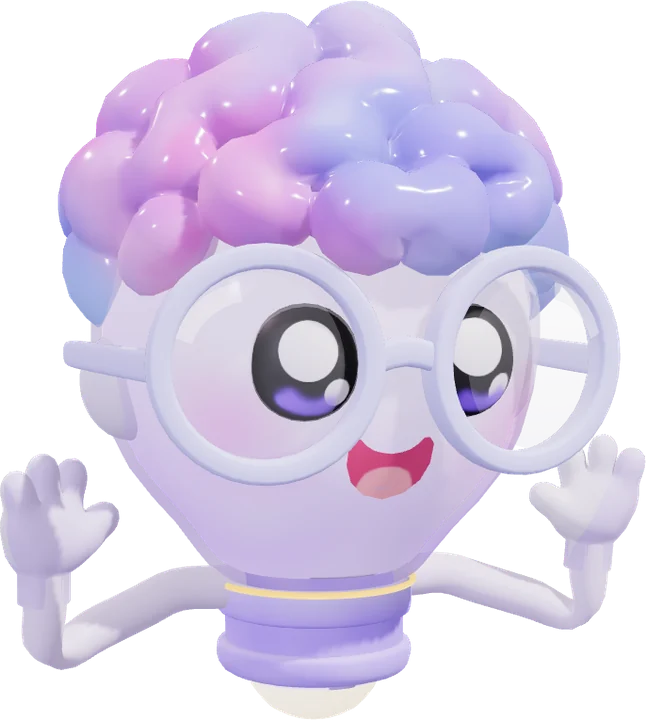
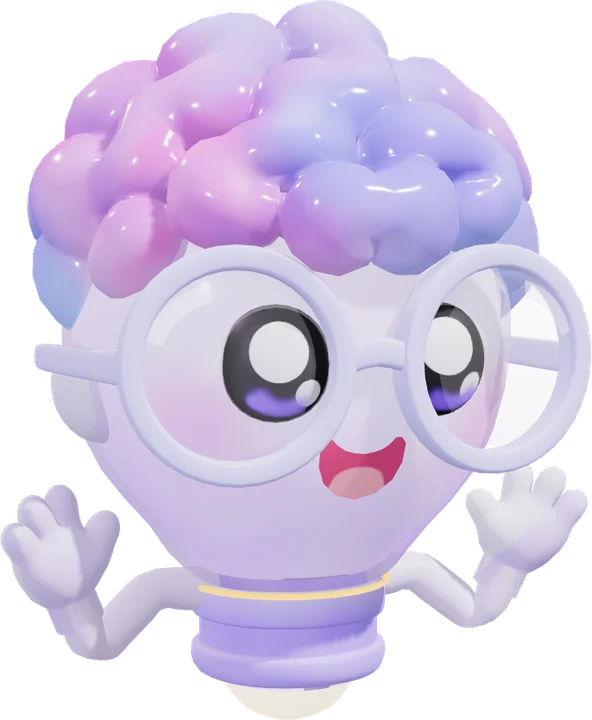
Stagger the About cast, give the Scholar books and shorten the Original's arms
- About hero: new front/back zigzag layout, everyone inside the frame with no overlaps
- Scholar carries a stack of books in the other hand instead of books on the floor
- Original: shorter arms (armLength option in the arm rig), stills re-rendered
- Founder block: face centred in the round photo, real Lynae logo, floating doodles removed

diff --git a/frontend/src/pages/AboutUsPage.js b/frontend/src/pages/AboutUsPage.js
@@ -8,15 +8,16 @@ import './AboutUsPage.css';
 
 // Feet (x, y) and height (h) in % of /hero/about-scene.webp, measured from the
 // camera that rendered it (tmp/hero-scene.html). The Original in the middle is
-// the live 3D Acey, so it is not in this list (see HERO_LIVE_SLOT).
+// the live 3D Acey, so it is not in this list. Front and back rows alternate
+// and everyone stays inside 9–91% of the frame, so no one is cut off.
 const HERO_CHARACTERS = [
-  { id: 'classic', x: 18.64, y: 63.26, h: 22.62, depth: -0.6 },
-  { id: 'long-vest', x: 41.2, y: 64.1, h: 18.11, depth: -3.6 },
-  { id: 'graduation', x: 84.04, y: 54.11, h: 20.7, depth: -2.4 },
-  { id: 'hoodie', x: 31.43, y: 71.34, h: 24.46, depth: 1.2 },
-  { id: 'vest', x: 68.06, y: 69.87, h: 23.05, depth: 0.2 },
-  { id: 'artist', x: 6.94, y: 79.29, h: 27.59, depth: 2.8 },
-  { id: 'cloak', x: 93.14, y: 78.99, h: 26.64, depth: 2.6 },
+  { id: 'artist', x: 15.96, y: 80.57, h: 26.9, depth: 3.4 },
+  { id: 'classic', x: 22.31, y: 52.8, h: 18.77, depth: -2.12 },
+  { id: 'hoodie', x: 33.18, y: 75.19, h: 26.26, depth: 3 },
+  { id: 'vest', x: 67.33, y: 82.76, h: 25.83, depth: 2.85 },
+  { id: 'long-vest', x: 73.37, y: 53.09, h: 18.92, depth: -1.5 },
+  { id: 'cloak', x: 79.72, y: 84.25, h: 26.82, depth: 3.4 },
+  { id: 'graduation', x: 85.77, y: 53.98, h: 19.83, depth: -1.5 },
 ].map((character) => ({ ...character, src: `/hero/acey-${character.id}.webp` }));
 
 const HERO_SPARKLES = [
@@ -177,109 +178,6 @@ const Scribble = ({ className = '' }) => (
   <svg className={`ace-about__scribble ${className}`} viewBox="0 0 220 24" preserveAspectRatio="none" aria-hidden="true">
     <path d="M4 15c40-8 92-10 136-7 26 2 50 5 76 2" />
     <path d="M18 20c54-6 110-7 176-4" />
-  </svg>
-);
-
-/* Sticker doodles around the founder portrait: a cheerful brain buddy, a
-   winged heart and the little Lynae robot, drawn inline so they stay crisp. */
-const CuteBrain = ({ className = '', wink = false }) => (
-  <svg className={className} viewBox="0 0 120 108" aria-hidden="true">
-    <defs>
-      <linearGradient id="about-brain-fill" x1="0" y1="0" x2="1" y2="1">
-        <stop offset="0" stopColor="#f3e0ff" />
-        <stop offset=".55" stopColor="#ddd0ff" />
-        <stop offset="1" stopColor="#c9baff" />
-      </linearGradient>
-    </defs>
-    <g fill="url(#about-brain-fill)" stroke="#8f7ce0" strokeWidth="2.4" strokeLinejoin="round">
-      <circle cx="40" cy="30" r="17" />
-      <circle cx="64" cy="22" r="15" />
-      <circle cx="86" cy="34" r="16" />
-      <circle cx="30" cy="50" r="15" />
-      <circle cx="92" cy="56" r="14" />
-      <circle cx="60" cy="44" r="20" />
-    </g>
-    <path d="M22 54c-4 16 6 34 26 39 7 2 15 2 22 0 20-5 30-23 26-39" fill="url(#about-brain-fill)" stroke="#8f7ce0" strokeWidth="2.4" strokeLinejoin="round" />
-    <path d="M22 56h78" stroke="#8f7ce0" strokeWidth="2.2" strokeLinecap="round" opacity=".55" />
-    <g fill="#fff" stroke="#8f7ce0" strokeWidth="2.6">
-      <circle cx="44" cy="72" r="15" />
-      <circle cx="80" cy="72" r="15" />
-    </g>
-    <path d="M59 71c1.6-1.4 3.8-1.4 5.4 0" fill="none" stroke="#8f7ce0" strokeWidth="2.4" strokeLinecap="round" />
-    {wink ? (
-      <>
-        <path d="M38 73c3-4 9-4 12 0" fill="none" stroke="#3f3374" strokeWidth="3.4" strokeLinecap="round" />
-        <path d="M74 73c3-4 9-4 12 0" fill="none" stroke="#3f3374" strokeWidth="3.4" strokeLinecap="round" />
-      </>
-    ) : (
-      <>
-        <circle cx="44" cy="72" r="6.4" fill="#3f3374" />
-        <circle cx="80" cy="72" r="6.4" fill="#3f3374" />
-        <circle cx="46.4" cy="69.6" r="2.2" fill="#fff" />
-        <circle cx="82.4" cy="69.6" r="2.2" fill="#fff" />
-      </>
-    )}
-    <ellipse cx="30" cy="84" rx="6" ry="4" fill="#ffb4d4" opacity=".75" />
-    <ellipse cx="94" cy="84" rx="6" ry="4" fill="#ffb4d4" opacity=".75" />
-    <path d="M55 88c3.4 3.6 9.6 3.6 13 0" fill="none" stroke="#3f3374" strokeWidth="3" strokeLinecap="round" />
-  </svg>
-);
-
-const CuteHeart = ({ className = '' }) => (
-  <svg className={className} viewBox="0 0 140 104" aria-hidden="true">
-    <defs>
-      <radialGradient id="about-cute-heart" cx="38%" cy="30%" r="76%">
-        <stop offset="0" stopColor="#ffe6f1" />
-        <stop offset=".55" stopColor="#ffb0d0" />
-        <stop offset="1" stopColor="#f588b6" />
-      </radialGradient>
-    </defs>
-    <path d="M40 40C27 24 10 25 5 33c9 0 14 4 16 9-8-2-14 1-16 6 8-1 13 1 16 5-5 1-9 4-10 8 11-4 20-3 30-7z" fill="#fff" stroke="#f3a9cd" strokeWidth="2" strokeLinejoin="round" />
-    <path d="M100 40c13-16 30-15 35-7-9 0-14 4-16 9 8-2 14 1 16 6-8-1-13 1-16 5 5 1 9 4 10 8-11-4-20-3-30-7z" fill="#fff" stroke="#f3a9cd" strokeWidth="2" strokeLinejoin="round" />
-    <path d="M70 96C47 79 34 66 34 50c0-11 8-19 18-19 7 0 14 4 18 11 4-7 11-11 18-11 10 0 18 8 18 19 0 16-13 29-36 46z" fill="url(#about-cute-heart)" stroke="#ef86b6" strokeWidth="2.4" strokeLinejoin="round" />
-    <circle cx="58" cy="55" r="3.6" fill="#8a3f66" />
-    <circle cx="82" cy="55" r="3.6" fill="#8a3f66" />
-    <path d="M64 63c3 3 9 3 12 0" fill="none" stroke="#8a3f66" strokeWidth="2.6" strokeLinecap="round" />
-    <ellipse cx="50" cy="62" rx="5" ry="3.4" fill="#ff8ab8" opacity=".6" />
-    <ellipse cx="90" cy="62" rx="5" ry="3.4" fill="#ff8ab8" opacity=".6" />
-  </svg>
-);
-
-const CuteRobot = ({ className = '' }) => (
-  <svg className={className} viewBox="0 0 120 120" aria-hidden="true">
-    <defs>
-      <linearGradient id="about-robot-body" x1="0" y1="0" x2="0" y2="1">
-        <stop offset="0" stopColor="#dff0ff" />
-        <stop offset="1" stopColor="#a9d4f5" />
-      </linearGradient>
-    </defs>
-    <path d="M60 20v-8" stroke="#8fb9dd" strokeWidth="3.4" strokeLinecap="round" />
-    <circle cx="60" cy="9" r="5" fill="#ffd45e" stroke="#e2ae2f" strokeWidth="2" />
-    <rect x="20" y="20" width="80" height="62" rx="24" fill="url(#about-robot-body)" stroke="#7fb0da" strokeWidth="2.6" />
-    <rect x="31" y="34" width="58" height="34" rx="16" fill="#f4fbff" stroke="#7fb0da" strokeWidth="2.2" />
-    <circle cx="48" cy="50" r="5.4" fill="#3f5a78" />
-    <circle cx="72" cy="50" r="5.4" fill="#3f5a78" />
-    <path d="M55 59c2.6 2.6 7.4 2.6 10 0" fill="none" stroke="#3f5a78" strokeWidth="2.6" strokeLinecap="round" />
-    <ellipse cx="38" cy="58" rx="4.6" ry="3" fill="#ffaecd" opacity=".8" />
-    <ellipse cx="82" cy="58" rx="4.6" ry="3" fill="#ffaecd" opacity=".8" />
-    <rect x="8" y="42" width="12" height="22" rx="6" fill="#c3e3fa" stroke="#7fb0da" strokeWidth="2.2" />
-    <rect x="100" y="42" width="12" height="22" rx="6" fill="#c3e3fa" stroke="#7fb0da" strokeWidth="2.2" />
-    <rect x="34" y="82" width="52" height="26" rx="13" fill="url(#about-robot-body)" stroke="#7fb0da" strokeWidth="2.6" />
-    <path d="M60 104c-9-6-14-11-14-17 0-4 3-7 7-7 3 0 5.6 1.6 7 4 1.4-2.4 4-4 7-4 4 0 7 3 7 7 0 6-5 11-14 17z" fill="#ffb0d0" stroke="#ef86b6" strokeWidth="2.2" strokeLinejoin="round" />
-  </svg>
-);
-
-const Twinkle = ({ className = '' }) => (
-  <svg className={className} viewBox="0 0 40 40" aria-hidden="true">
-    <g stroke="#ffc94a" strokeWidth="3.4" strokeLinecap="round">
-      <path d="M20 6v9M31 12l-6 6M9 12l6 6M20 34v-8" />
-    </g>
-  </svg>
-);
-
-const LynaeWordmark = () => (
-  <svg className="ace-about__lynae-word" viewBox="0 0 120 34" aria-hidden="true">
-    <text x="60" y="26" textAnchor="middle">LYNAE</text>
   </svg>
 );
 
@@ -671,19 +569,8 @@ const AboutUsPage = () => {
 
         <div className="ace-about__founder-photo">
           <div className="ace-about__founder-frame">
-            <img src="/about/founder-lyna.webp" alt="Lyna Ai Do, founder of ACE AP STEM" width="720" height="818" loading="lazy" />
+            <img src="/about/founder-lyna-avatar.webp" alt="Lyna Ai Do, founder of ACE AP STEM" width="640" height="640" loading="lazy" />
           </div>
-          {/* Hand-drawn stickers around the portrait, as in the client's design. */}
-          <CuteBrain className="ace-about__sticker ace-about__sticker--brain-a" />
-          <CuteBrain className="ace-about__sticker ace-about__sticker--brain-b" wink />
-          <CuteHeart className="ace-about__sticker ace-about__sticker--heart-a" />
-          <CuteHeart className="ace-about__sticker ace-about__sticker--heart-b" />
-          <CuteRobot className="ace-about__sticker ace-about__sticker--robot" />
-          <Twinkle className="ace-about__sticker ace-about__sticker--twinkle-a" />
-          <Twinkle className="ace-about__sticker ace-about__sticker--twinkle-b" />
-          <Twinkle className="ace-about__sticker ace-about__sticker--twinkle-c" />
-          <Heart className="ace-about__sticker ace-about__sticker--outline-a" />
-          <Heart className="ace-about__sticker ace-about__sticker--outline-b" />
           <div className="ace-about__founder-tag">
             <div>
               <strong>Lyna Ai Do</strong>
@@ -696,11 +583,7 @@ const AboutUsPage = () => {
         <aside className="ace-about__lynae" aria-labelledby="lynae-title">
           <p className="ace-about__lynae-kicker">Also founded by Lyna <Heart /></p>
           <div className="ace-about__lynae-logo">
-            <span className="ace-about__lynae-mark">
-              <LynaeWordmark />
-              <CuteRobot className="ace-about__lynae-robot" />
-              <CuteHeart className="ace-about__lynae-heart" />
-            </span>
+            <img className="ace-about__lynae-mark" src="/about/lynae-logo.webp" alt="Lynae logo: a little robot hugging a winged heart" width="320" height="320" loading="lazy" />
             <div>
               <h3 id="lynae-title">Lynae</h3>
               <span className="ace-about__lynae-name">Heart &amp; Hardware</span>
@@ -718,7 +601,6 @@ const AboutUsPage = () => {
               <FaInstagram aria-hidden="true" /> Instagram <FaArrowRight aria-hidden="true" />
             </a>
           </div>
-          <CuteHeart className="ace-about__sticker ace-about__sticker--lynae" />
         </aside>
       </section>
 

diff --git a/frontend/src/pages/AboutUsPage.css b/frontend/src/pages/AboutUsPage.css
@@ -346,7 +346,7 @@
   background: linear-gradient(160deg, #fde4f3, #eadcff);
   box-shadow: 0 26px 50px -30px rgba(90, 50, 170, .6), 0 0 0 10px rgba(236, 226, 255, .55);
 }
-.ace-about__founder-frame img { display: block; width: 100%; height: 100%; object-fit: cover; object-position: 50% 16%; }
+.ace-about__founder-frame img { display: block; width: 100%; height: 100%; object-fit: cover; }
 .ace-about__founder-tag {
   position: absolute;
   right: -2px;
@@ -365,21 +365,6 @@
 .ace-about__founder-tag span { display: block; margin-top: 2px; color: var(--ace-muted); font-size: .7rem; }
 .ace-about__founder-tag .ace-about__heart { width: 18px; height: 17px; color: #f284b8; fill: currentColor; stroke: none; }
 
-/* stickers */
-.ace-about__sticker { position: absolute; z-index: 2; pointer-events: none; filter: drop-shadow(0 8px 12px rgba(120, 80, 190, .18)); }
-.is-visible .ace-about__sticker { animation: ace-about-float 5.4s ease-in-out infinite; }
-.ace-about__sticker--brain-a { left: -5%; top: 0; width: 30%; animation-delay: -.8s; }
-.ace-about__sticker--brain-b { right: -6%; bottom: 18%; width: 28%; animation-delay: -2.4s; }
-.ace-about__sticker--heart-a { right: -3%; top: 2%; width: 24%; animation-delay: -1.6s; }
-.ace-about__sticker--heart-b { left: 4%; bottom: 4%; width: 22%; animation-delay: -3.2s; }
-.ace-about__sticker--robot { left: -5%; bottom: 20%; width: 25%; animation-delay: -2s; }
-.ace-about__sticker--twinkle-a { left: 16%; top: -2%; width: 8%; animation: ace-about-twinkle 3.2s ease-in-out infinite; }
-.ace-about__sticker--twinkle-b { right: 16%; top: 40%; width: 7%; animation: ace-about-twinkle 3.8s ease-in-out .7s infinite; }
-.ace-about__sticker--twinkle-c { left: 24%; bottom: 2%; width: 6.5%; animation: ace-about-twinkle 4.2s ease-in-out 1.4s infinite; }
-.ace-about__sticker--outline-a { right: 24%; top: -3%; width: 8%; height: auto; color: #f2a3c9; stroke: currentColor; fill: none; }
-.ace-about__sticker--outline-b { left: 34%; bottom: -1%; width: 7%; height: auto; color: #c9b2ff; stroke: currentColor; fill: none; }
-.ace-about__sticker--lynae { position: absolute; right: -14px; bottom: -16px; width: 96px; z-index: 1; }
-
 /* Lynae card */
 .ace-about__lynae {
   position: relative;
@@ -396,11 +381,7 @@
 .ace-about__lynae-kicker { display: flex; align-items: center; justify-content: space-between; gap: 10px; margin: 0; color: #d4478f; font-size: .88rem; font-weight: 850; }
 .ace-about__lynae-kicker .ace-about__heart { width: 18px; height: 17px; color: #f284b8; }
 .ace-about__lynae-logo { display: flex; align-items: center; gap: 14px; padding: 14px 16px; border: 1px solid #fadff0; border-radius: 18px; background: #fff; box-shadow: 0 16px 30px -26px rgba(200, 70, 140, .7); }
-.ace-about__lynae-mark { position: relative; flex: none; width: 112px; height: 96px; }
-.ace-about__lynae-word { position: absolute; left: 0; top: 0; width: 100%; }
-.ace-about__lynae-word text { fill: #e58cc0; font: 900 20px 'Nunito Sans Variable', sans-serif; letter-spacing: .2em; }
-.ace-about__lynae-robot { position: absolute; left: 0; bottom: 0; width: 50px; }
-.ace-about__lynae-heart { position: absolute; right: 0; bottom: 8px; width: 54px; }
+.ace-about__lynae-mark { flex: none; width: 104px; height: 104px; border-radius: 50%; object-fit: cover; }
 .ace-about__lynae-logo h3 { margin: 0; color: #3e2f55; font-family: Georgia, 'Times New Roman', serif; font-size: 1.6rem; font-weight: 500; line-height: 1; }
 .ace-about__lynae-name { display: block; margin-top: 3px; color: #3e2f55; font-size: .84rem; font-weight: 800; }
 .ace-about__lynae-motto { display: block; margin-top: 3px; color: #d4478f; font-size: .64rem; font-weight: 700; }
@@ -444,7 +425,6 @@
 .ace-about__viewer-btn--next { right: 12px; top: calc(50% - 40px); }
 
 @keyframes ace-about-float { 0%, 100% { transform: translateY(0); } 50% { transform: translateY(-8px); } }
-@keyframes ace-about-twinkle { 0%, 100% { transform: scale(1) rotate(0); opacity: 1; } 50% { transform: scale(.78) rotate(12deg); opacity: .7; } }
 @keyframes ace-about-fade { from { opacity: 0; } to { opacity: 1; } }
 @keyframes ace-about-rise { from { opacity: 0; transform: translateY(24px); } to { opacity: 1; transform: none; } }
 @keyframes ace-about-pop { from { opacity: 0; scale: .8; } to { opacity: 1; scale: 1; } }
@@ -514,10 +494,8 @@
   .ace-about__lynae-foot .ace-about__btn { flex: 1 1 auto; }
   .ace-about__lynae-logo { width: 100%; }
   .ace-about__lynae-motto, .ace-about__btn--soft { white-space: normal; }
-  .ace-about__lynae-mark { width: 64px; }
+  .ace-about__lynae-mark { width: 76px; height: 76px; }
   .ace-about__lynae-foot .ace-about__btn { width: 100%; }
-  .ace-about__lynae-float { display: none; }
-  .ace-about__hand--lynae { display: none; }
   .ace-about__hand--gotthis { font-size: 1.1rem; left: 16px; top: 16px; }
   .ace-about__viewer { padding: 10px; }
 }
@@ -525,6 +503,6 @@
   [data-reveal], .ace-about__trait, .ace-about__callout, .ace-about__closer-arrows path, .ace-about__trait i { opacity: 1; transform: none; transition: none; stroke-dashoffset: 0; }
   .ace-about__trait i { width: 34px; }
   .ace-about__rise, .ace-about__brand, .ace-about__live-acey, .ace-about__live-fallback, .ace-about__hero-cue span, .ace-about__closer-img,
-  .ace-about__story-acey img, .ace-about__wave-lines, .ace-about__book-icon, .ace-about__sticker, .ace-about__viewer, .ace-about__dots i { animation: none !important; }
+  .ace-about__story-acey img, .ace-about__wave-lines, .ace-about__book-icon, .ace-about__viewer, .ace-about__dots i { animation: none !important; }
   .ace-about__btn, .ace-about__step-track, .ace-about__step-slide img, .ace-about__filmstrip button { transition: none; }
 }

diff --git a/frontend/src/components/mascot/mascotArmPose.js b/frontend/src/components/mascot/mascotArmPose.js
@@ -39,6 +39,27 @@ export const ARM_FRAME = {
   gripX: 0.617,
 };
 
+// Shorter arms (`hold.armLength: { from, to, scale }`): along each arm the
+// stretch between `from` and `to` (distance from the body centre; the tube
+// from the shoulder to the wrist) is scaled by `scale` and everything beyond
+// it (the hand) slides inward by what was removed. The arm frame is remapped
+// the same way so the joints stay at the new elbow and palm.
+const shortenReach = (reach, { from, to, scale }) => {
+  if (reach <= from) return reach;
+  if (reach <= to) return from + ((reach - from) * scale);
+  return reach - ((to - from) * (1 - scale));
+};
+const FRAME_REACH_KEYS = ['elbowX', 'palmX', 'knuckleX', 'handMinX', 'gripX'];
+const FRAME_RANGE_KEYS = ['shoulderBlend', 'elbowBlend', 'torsoX'];
+export const shortenArmFrame = (frame, armLength) => {
+  const next = { ...frame };
+  FRAME_REACH_KEYS.forEach((key) => { next[key] = shortenReach(frame[key], armLength); });
+  FRAME_RANGE_KEYS.forEach((key) => { next[key] = frame[key].map((value) => shortenReach(value, armLength)); });
+  return next;
+};
+const isArmPoint = (point, frame) => point.y >= frame.minY && point.y <= frame.maxY
+  && Math.abs(point.z - frame.axisZ) <= frame.maxAbsZ;
+
 // Two-bone IK: returns the upper-arm and forearm rotations that put the palm
 // (rest point `frame.palmX` along the arm) on `target`, with the elbow bent
 // toward `pole`. Rotations are relative to the T-pose.
@@ -189,7 +210,8 @@ const createArmSkeleton = (model, frame) => {
 // fingers curl around them; `props` meshes simply follow the forearm.
 export const poseCharacterArms = (model, hold, baseFrame = ARM_FRAME) => {
   if (!model || !hold || model.userData.armPose) return model?.userData.armPose || null;
-  const frame = hold.frame ? { ...baseFrame, ...hold.frame } : baseFrame;
+  const customFrame = hold.frame ? { ...baseFrame, ...hold.frame } : baseFrame;
+  const frame = hold.armLength ? shortenArmFrame(customFrame, hold.armLength) : customFrame;
   model.updateMatrixWorld(true);
   const toModel = new THREE.Matrix4().copy(model.matrixWorld).invert();
   const meshes = [];
@@ -231,6 +253,17 @@ export const poseCharacterArms = (model, hold, baseFrame = ARM_FRAME) => {
       fixed: fixedMeshes.has(mesh.name) || fixedMeshes.has(mesh.parent?.name),
     };
   });
+
+  if (hold.armLength) {
+    baked.forEach((item) => {
+      if (item.fixed) return;
+      item.points.forEach((point) => {
+        if (!isArmPoint(point, customFrame)) return;
+        const reach = Math.abs(point.x);
+        point.x = Math.sign(point.x) * shortenReach(reach, hold.armLength);
+      });
+    });
+  }
 
   // Hats sit higher so the brain shows under the brim, as in the approved
   // renders: `headwear: { materials: [...], fromY, lift }` raises every vertex

diff --git a/frontend/src/components/mascot/mascotCatalog.js b/frontend/src/components/mascot/mascotCatalog.js
@@ -15,10 +15,13 @@ export const OUTFITS = [
     // The designer body with no outfit (tmp/build-original.mjs): one hand
     // raised in a hello: both hands up beside the face, waving together.
     hold: {
-      right: { target: [-0.415, 0.49, 0.09], pole: [1, -0.6, 0.3], roll: -90 },
-      left: { target: [0.415, 0.49, 0.09], pole: [1, -0.6, 0.3], roll: -90 },
+      right: { target: [-0.348, 0.449, 0.065], pole: [1, -0.6, 0.3], roll: -90 },
+      left: { target: [0.348, 0.449, 0.065], pole: [1, -0.6, 0.3], roll: -90 },
       // Round elbows on the slender arm tubes.
       frame: { elbowBlend: [0.33, 0.48] },
+      // Short arms as in the approved design render (client, 2026-09-18):
+      // the tube between the shoulder and the wrist is half as long.
+      armLength: { from: 0.2, to: 0.45, scale: 0.5 },
       wave: { side: 'both', degrees: 22, speed: 9 },
     },
   },
@@ -435,12 +438,13 @@ export const POSED_VARIANTS = {
 export const PROP_SETS = {
   'long-vest': { url: '/mascot/props/long-vest.glb', label: 'Science flask', holdArms: ['left'] },
   vest: { url: '/mascot/props/vest.glb', label: 'Briefcase & coffee mug', holdArms: ['left', 'right'] },
-  // The approved Scholar render points the pencil out to the side.
+  // The approved Scholar render points the pencil out to the side; the other
+  // arm comes down and in to hug a stack of books against the body.
   graduation: {
     url: '/mascot/props/graduation.glb',
     label: 'Pencil & books',
-    holdArms: ['right'],
-    holdPose: { right: { down: 12, forward: 8 } },
+    holdArms: ['right', 'left'],
+    holdPose: { right: { down: 12, forward: 8 }, left: { down: 44, forward: 64 } },
   },
 };
 

diff --git a/frontend/src/components/mascot/mascotArmPose.test.js b/frontend/src/components/mascot/mascotArmPose.test.js
@@ -1,5 +1,5 @@
 import * as THREE from 'three';
-import { ARM_FRAME, getArmWeights, getWaveAngle, poseCharacterArms, solveArmHold } from './mascotArmPose';
+import { ARM_FRAME, getArmWeights, getWaveAngle, poseCharacterArms, shortenArmFrame, solveArmHold } from './mascotArmPose';
 
 const placePalm = (side, { upper, fore }) => {
   const sign = side === 'right' ? -1 : 1;
@@ -63,4 +63,12 @@ test('waves in bursts and rests between them', () => {
   angles.forEach((angle) => expect(Math.abs(angle)).toBeLessThanOrEqual(THREE.MathUtils.degToRad(20)));
   expect(getWaveAngle(wave, 3)).toBe(0);
   expect(getWaveAngle(undefined, 1)).toBe(0);
+});
+
+test('shorter arms halve the shoulder-to-wrist stretch and slide the hand in', () => {
+  const frame = shortenArmFrame(ARM_FRAME, { from: 0.2, to: 0.45, scale: 0.5 });
+  expect(frame.shoulderX).toBe(ARM_FRAME.shoulderX);
+  expect(frame.elbowX).toBeCloseTo(0.2 + ((ARM_FRAME.elbowX - 0.2) * 0.5));
+  expect(frame.palmX).toBeCloseTo(ARM_FRAME.palmX - 0.125);
+  expect(frame.elbowBlend[0]).toBeLessThan(ARM_FRAME.elbowBlend[0]);
 });
